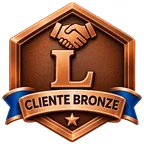
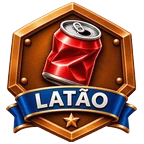
Medalha do latão: arte nova do dono (lata amassada)
Claude-Session: https://claude.ai/code/session_01F3xt6CdJXHK7xhvfWHDtPp

diff --git a/tempo-real.html b/tempo-real.html
@@ -8284,7 +8284,7 @@ function nomeCliAbrir(u){
 /* 25/11/2026 (dono): medalhas com a arte do dono (icv/medalha-*.webp), no lugar das iniciais */
 const MEDALHA={ouro:['ouro','Cliente Ouro: bom pagador'],prata:['prata','Cliente Prata: pagador regular'],latao:['latao','Cliente Bronze: iniciante / em análise']};
 function medalhaHtml(fm){ const m=fm&&MEDALHA[fm.medalha]; if(!m) return '';
-  return '<span class="cmed" title="'+esc(m[1]+(fm.medalhaPoucos?' · cliente novo, poucos boletos':''))+'"><img src="icv/medalha2-'+m[0]+'.webp" alt="'+esc(m[1])+'" width="44" height="44" loading="lazy" decoding="async"></span>' }
+  return '<span class="cmed" title="'+esc(m[1]+(fm.medalhaPoucos?' · cliente novo, poucos boletos':''))+'"><img src="icv/medalha2-'+m[0]+'.webp?v=3" alt="'+esc(m[1])+'" width="44" height="44" loading="lazy" decoding="async"></span>' }
 const FILTROS_CLI=[
   {id:'hoje',   t:'Criados hoje', ok:u=>desdeDe(u)===hojeISO(), tit:'Clientes cadastrados hoje (para achar rápido quem o técnico está instalando)'},
   {id:'todos',  t:'Todos',        ok:()=>true},
